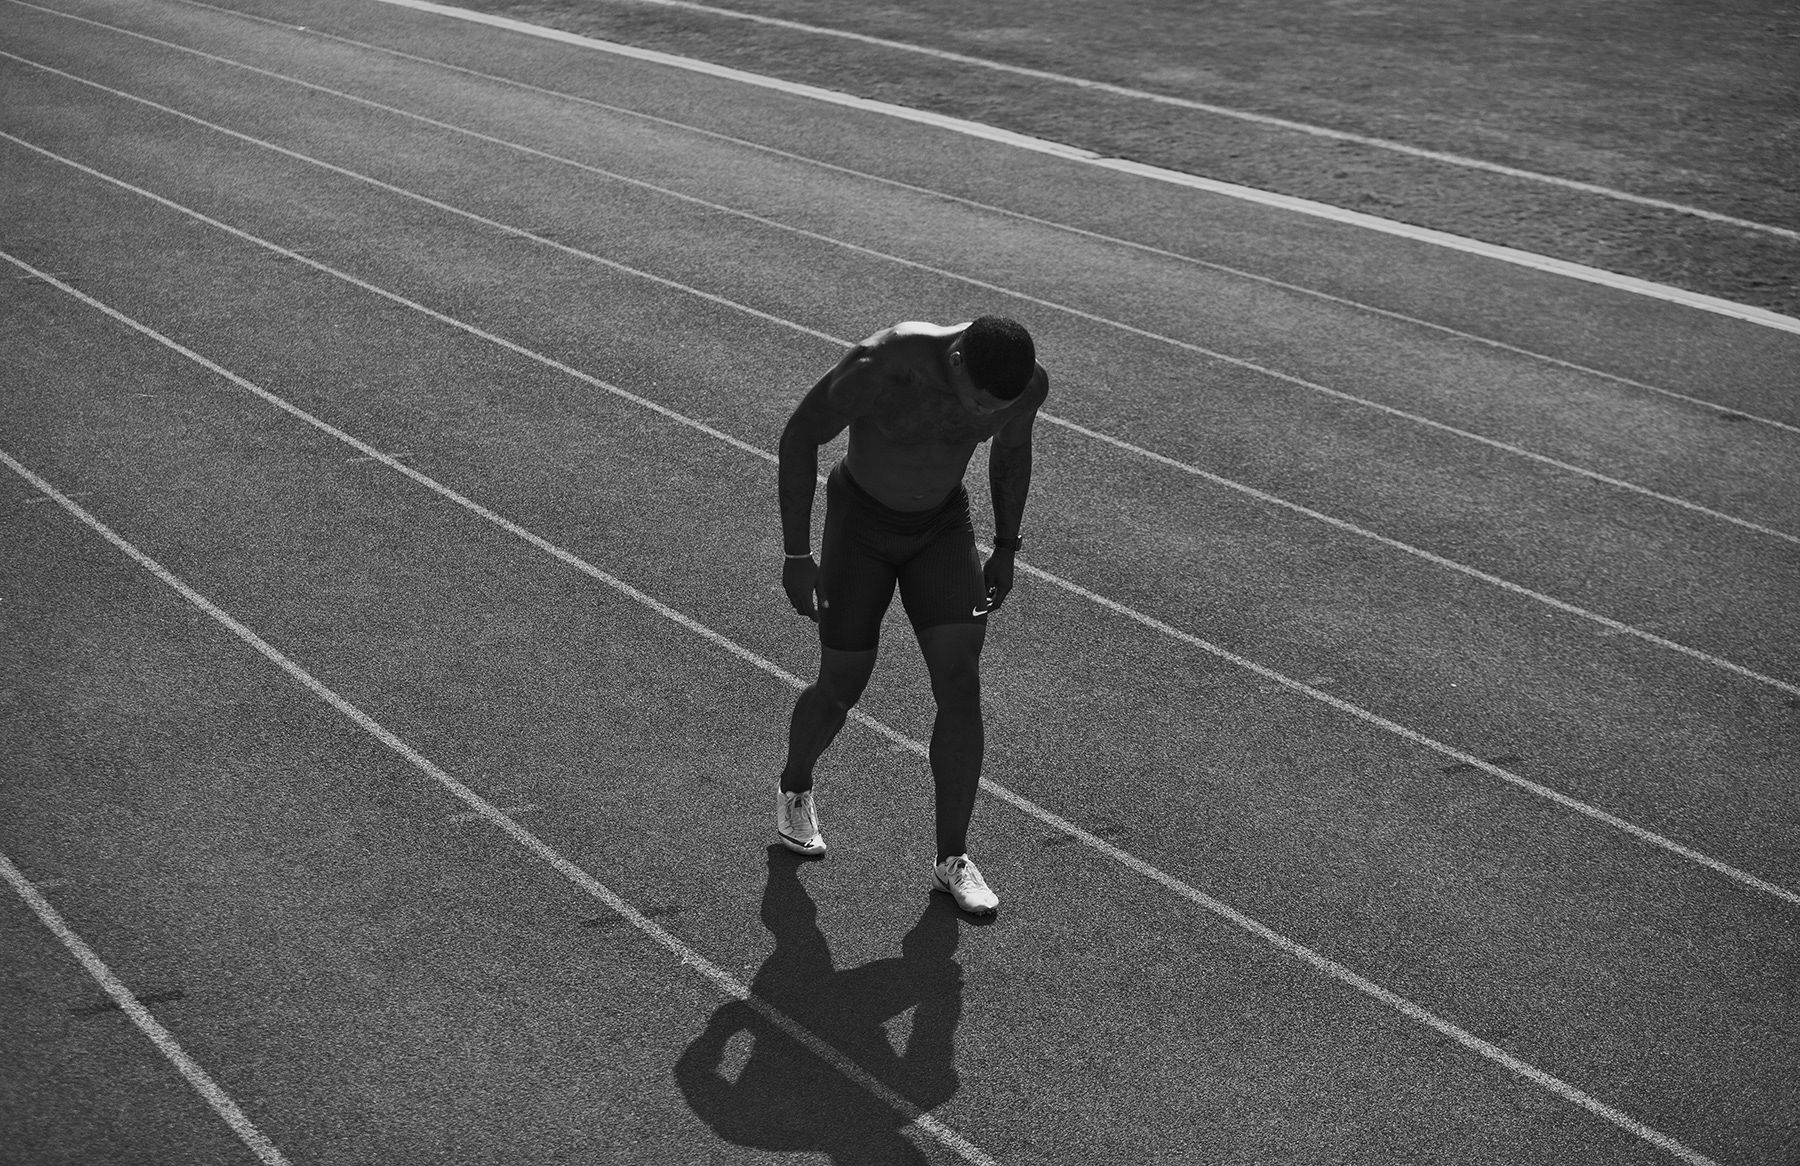
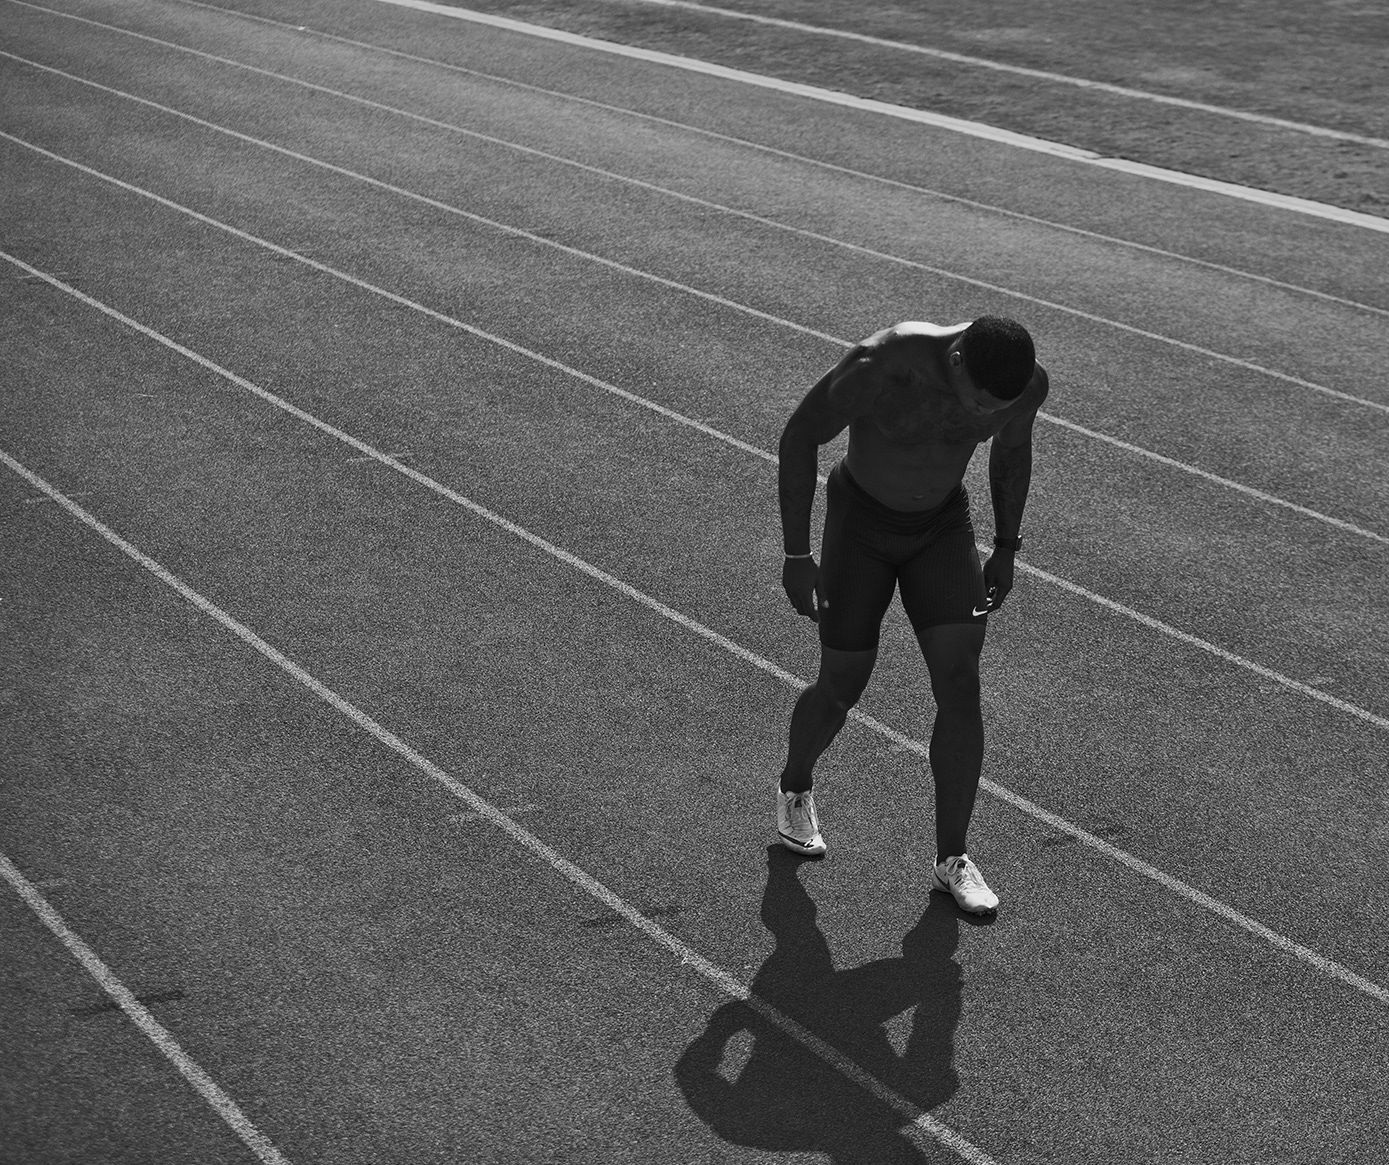
add frontend for new adress(registration)

diff --git a/Desktop/Flask_Site_Project/app/static/css/main.css b/Desktop/Flask_Site_Project/app/static/css/main.css
@@ -9,7 +9,6 @@ body {
     font-family: "Poppins", sans-serif;
     font-weight: 400;
     color: #fff;
-
 }
 
 a {
@@ -21,6 +20,15 @@ body.main-bg {
     background-size: cover;
     background-position: center;
     background-attachment: fixed;
+}
+
+body.registration-bg {
+    background-image: url('/static/img_for_site/registration.jpg');
+    background-size: cover;
+    background-position: center;
+    background-attachment: fixed;
+    overflow: hidden;
+    height: 100vh;
 }
 
 .page-main {
@@ -56,28 +64,207 @@ img {
 }
 
 .container {
-    width: 1400px;
+    width: 2000px;
     margin: 0 auto;
+    position: relative;
 }
 
 header {
-
-    padding: 50px 0;
+    background-color: #000;
+    padding: 20px 0 43px 0;
+    width: 100%;
 }
 
 header .logo {
     text-transform: uppercase;
     font-size: 30px;
     font-weight: 800;
+    position: absolute;
+    left: 0;
 }
 
 header nav {
     float: right;
-    width: 50%
+    width: 40%
 }
 
 header nav ul {
     list-style: none;
     display: flex;
     justify-content: space-between;
+}
+
+header nav ul li {
+    display: inline-block;
+}
+
+header nav ul li a {
+    color: #fff;
+}
+
+header nav ul li.active:hover::after {
+    content: "";
+    display: block;
+    width: 5px;
+    height: 5px;
+    border-radius: 10px;
+    background-color: #DC7000;
+}
+
+header nav ul li:not(.btn):hover::after {
+    content: "";
+    display: block;
+    width: 100%;
+    height: 4px;
+    background-color: #DC7000;
+    border-radius: 2px;
+    margin-top: 5px;
+}
+
+header nav ul li.btn a {
+    background: #DC7000;
+    padding: 9px 23px;
+    border-radius: 5px;
+    transition: all 500ms ease;
+}
+
+header nav ul li.btn a:hover {
+    background: #9d3904;
+}
+
+.hero {
+    padding: 270px 0 100px 0;
+    margin-left: -86px;
+}
+
+.hero--info {
+    width: 800px;
+    background: rgba(0, 0, 0, 0.653);
+    padding: 45px;
+}
+
+.hero--info h2 {
+    padding: 9px;
+    color: #DC7000;
+    font-size: 25px;
+    font-weight: 600;
+    margin-left: -10px;
+    margin-top: -16px;
+}
+
+.hero--info h1 {
+    font-size: 50px;
+    font-weight: 600;
+    padding: 9px;
+    margin-left: -6px;
+}
+
+.hero--info p {
+    font-size: 20px;
+    font-weight: 500;
+    line-height: 170%;
+    margin: 20px 0;
+}
+
+.hero--info .btn {
+    background: #DC7000;
+    color: #fff;
+    border-radius: 50px;
+    font-size: 18px;
+    padding: 15px 30px;
+    border: 0;
+    transition: all 500ms ease;
+    display: inline-block;
+    text-decoration: none;
+}
+
+.hero--info .btn:hover {
+    cursor: pointer;
+    transform: scale(1.1);
+    background: #9d3904;
+}
+
+.reg {
+    display: flex;
+    justify-content: center;
+    align-items: center;
+    min-height: 100vh;
+    width: 100%;
+}
+
+.reg--info {
+    width: 380px;
+    background: rgba(0, 0, 0, 0.75);
+    padding: 40px;
+    border-radius: 20px;
+    margin-top: -80px;
+}
+
+.reg--info p {
+    margin-top: 26px;
+    margin-bottom: 6px;
+    position: relative;
+}
+
+.reg--info label {
+    display: block;
+    margin-bottom: 8px;
+    color: #DC7000;
+    font-size: 20px;
+    font-weight: 600;
+}
+
+.reg--info input:not(.btn-success) {
+    width: 100%;
+    padding: 12px 15px;
+    border: 2px solid #DC7000;
+    background: #3a3a3a;
+    border-radius: 10px;
+    color: #ffffff;
+    font-size: 16px;
+    transition: all 0.3s ease;
+    box-sizing: border-box;
+}
+
+.reg--info input:not(.btn-success):focus {
+    outline: none;
+    border-color: #ff9d2e;
+    background: #4a4a4a;
+    transform: translateY(-2px);
+}
+
+.reg--info .btn-success {
+    background: #DC7000;
+    color: #fff;
+    border-radius: 50px;
+    font-size: 18px;
+    padding: 14px 33px;
+    border: 0;
+    cursor: pointer;
+    transition: all 500ms ease;
+}
+
+.reg--info .btn-success:hover {
+    background: #9d3904;
+    transform: scale(1.05);
+}
+
+.reg--info h1 {
+    text-align: center;
+}
+
+.reg--info p:last-of-type {
+    text-align: center;
+    margin-bottom: 0;
+}
+
+.reg--info input.invalid {
+    border-color: #ff4444;
+}
+
+.reg--info .invalid-feedback {
+    color: #ff8888;
+    font-size: 12px;
+    display: block;
+    margin-top: 5px;
 }

diff --git a/Desktop/Flask_Site_Project/app/templates/base.html b/Desktop/Flask_Site_Project/app/templates/base.html
@@ -12,39 +12,32 @@
 
 <body class="{% block body_class %}{% endblock %}">
     <!-- Шапка сайта -->
-    <header class="container">
-        <span class="logo">sport</span>
-        <nav>
-            <ul>
-
-                {% if current_user.is_authenticated %}
-                <a href="{{ url_for('profile.profile_of_user') }}" class="btn btn-info">Профиль</a>
-                <li class="active"><a href="{{ url_for('main_page.example_profile') }}">Пример анкеты</li>
-                <li class="active"><a href="{{ url_for('de_auth.deauth') }}">Выйти</li>
-                <li class="btn"><a href="{{ url_for('about_site.about_site') }}">О сайте</li>
-
-                {% else %}
-                <!--<li class="active"><a href="{{url_for('main_page.example_profile')}}">Создание анкеты</li>-->
-                <li class="active"><a href="{{url_for('registration.registration')}}">Регистрация</li>
-                <li class="active"><a href="{{ url_for('main_page.example_profile') }}">Пример анкеты</li>
-                <li class="active"><a href="{{url_for('authenitication.auth')}}">Войти</li>
-                <li class="btn"><a href="{{ url_for('about_site.about_site') }}">О сайте</li>
-                {% endif %}
-
-            </ul>
-        </nav>
-
+    <header>
+        <div class="container">
+            <span class="logo"></span>
+            <nav>
+                <ul>
+                    {% if current_user.is_authenticated %}
+                    <li><a href="{{ url_for('profile.profile_of_user') }}" class="btn btn-info">Профиль</a></li>
+                    <li class="active"><a href="{{ url_for('main_page.example_profile') }}">Пример анкеты</a></li>
+                    <li class="active"><a href="{{ url_for('de_auth.deauth') }}">Выйти</a></li>
+                    <li class="btn"><a href="{{ url_for('about_site.about_site') }}">О сайте</a></li>
+                    {% else %}
+                    <li class="active"><a href="{{ url_for('registration.registration') }}">Регистрация</a></li>
+                    <li class="active"><a href="{{ url_for('main_page.example_profile') }}">Пример анкеты</a></li>
+                    <li class="active"><a href="{{ url_for('authenitication.auth') }}">Войти</a></li>
+                    <li class="btn"><a href="{{ url_for('about_site.about_site') }}">О сайте</a></li>
+                    {% endif %}
+                </ul>
+            </nav>
+        </div>
     </header>
-
 
     <main class="container">
         {% block body %}
-
         <!-- Основной контент -->
-
         {% endblock %}
     </main>
-
 </body>
 
 </html>

diff --git a/Desktop/Flask_Site_Project/app/templates/registration.html b/Desktop/Flask_Site_Project/app/templates/registration.html
@@ -1,31 +1,30 @@
 {% extends "base.html" %}
 
+{% block body_class %}registration-bg{% endblock %}
+
 {% block body %}
 
-<div class="container mt-5">
-    <h1>Cоздание аккаунта</h1>
-
-    <form action="" method="post" novalidate class="form-contact">
-
-        {{ form.hidden_tag() }}
-
-        {% for field in form if field.name not in ['csrf_token', 'submit'] -%}
-        <p>{{ field.label() }}</p>
-        {% if field.errors %}
-        {{ field(class="invalid") }}
-        <span class="invalid-feedback">
-            {% for e in field.errors %}
-            {{ e }}
+<div class="reg">
+    <div class="reg--info">
+        <h1>Создание аккаунта</h1>
+        <form action="" method="post" novalidate class="form-contact">
+            {{ form.hidden_tag() }}
+            {% for field in form if field.name not in ['csrf_token', 'submit'] -%}
+            <p>{{ field.label() }}</p>
+            {% if field.errors %}
+            {{ field(class="invalid") }}
+            <span class="invalid-feedback">
+                {% for e in field.errors %}
+                {{ e }}
+                {% endfor %}
+            </span>
+            {% else %}
+            {{ field() }}
+            {% endif %}
             {% endfor %}
-        </span>
-        {% else %}
-        {{ field() }}
-        {% endif %}
-        {% endfor %}
-
-        <p>{{ form.submit(class = "btn btn-success") }}
-    </form>
-
+            <p>{{ form.submit(class = "btn btn-success") }}
+        </form>
+    </div>
 </div>
 
 {% endblock %}

diff --git a/Desktop/Flask_Site_Project/app/templates/main.html b/Desktop/Flask_Site_Project/app/templates/main.html
@@ -4,14 +4,14 @@
 
 {% block body %}
 
-<div class="hero container">
+<div class="hero">
     <div class="hero--info">
         <h2>Только представьте...</h2>
         <h1>У вас имеются потрясающие возможности для максимальной реализации и планирования своих тренировочных
             процессов!</h1>
         <p>Потому что именно здесь и только здесь для вас будут разработаны специальные и уникальные методики для
             увеличения эффективности ваших тренировок. Нужно только создать анкету:</p>
-        <button class="btn"><a href="{{ url_for('create_profile.create_profile') }}">Создать анкету</button>
+        <a href="{{ url_for('create_profile.create_profile') }}" class="btn">Создать анкету</a>
     </div>
 </div>
 